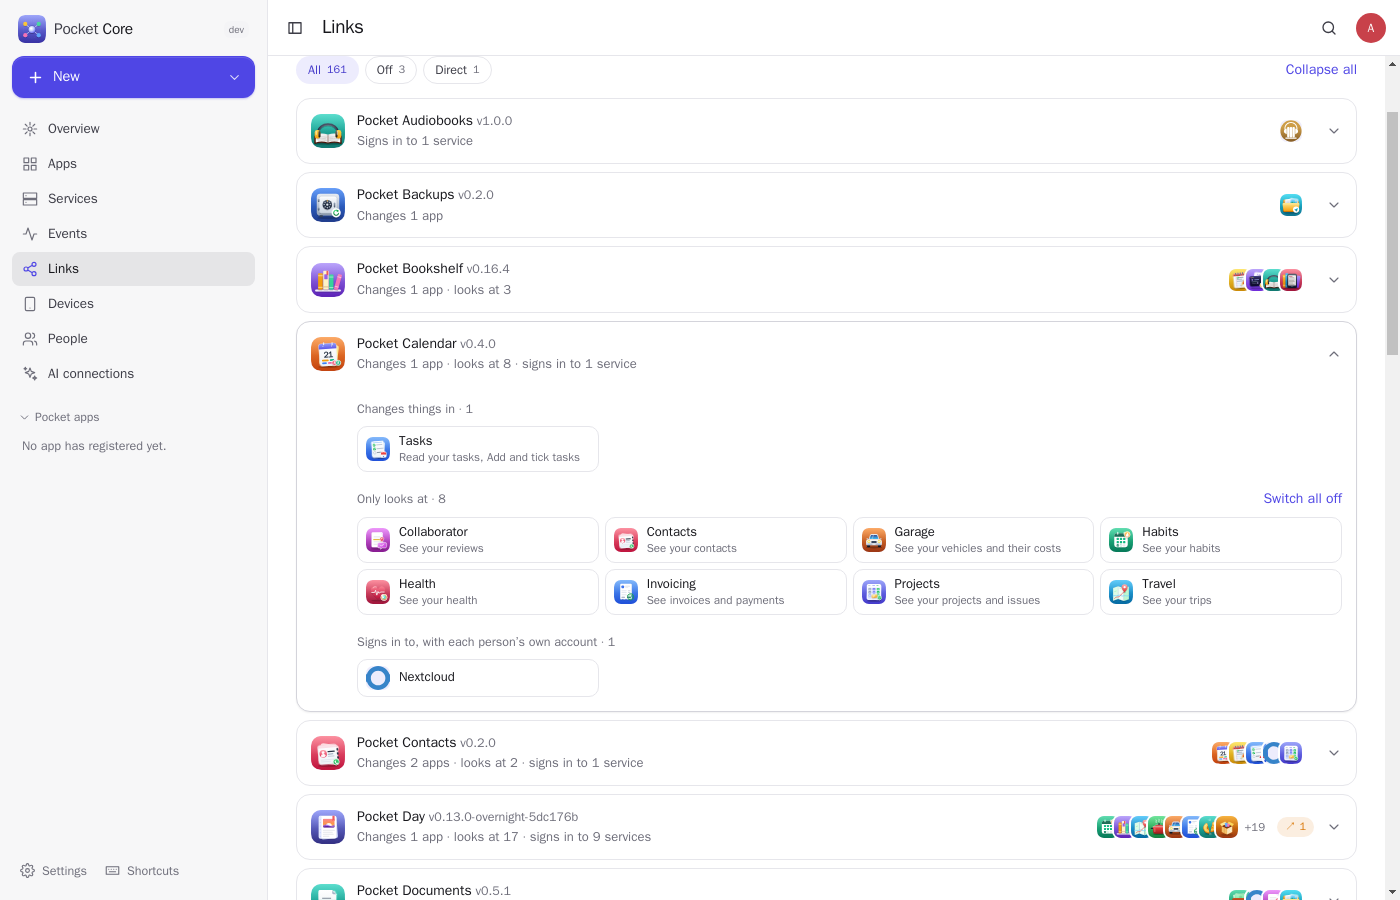
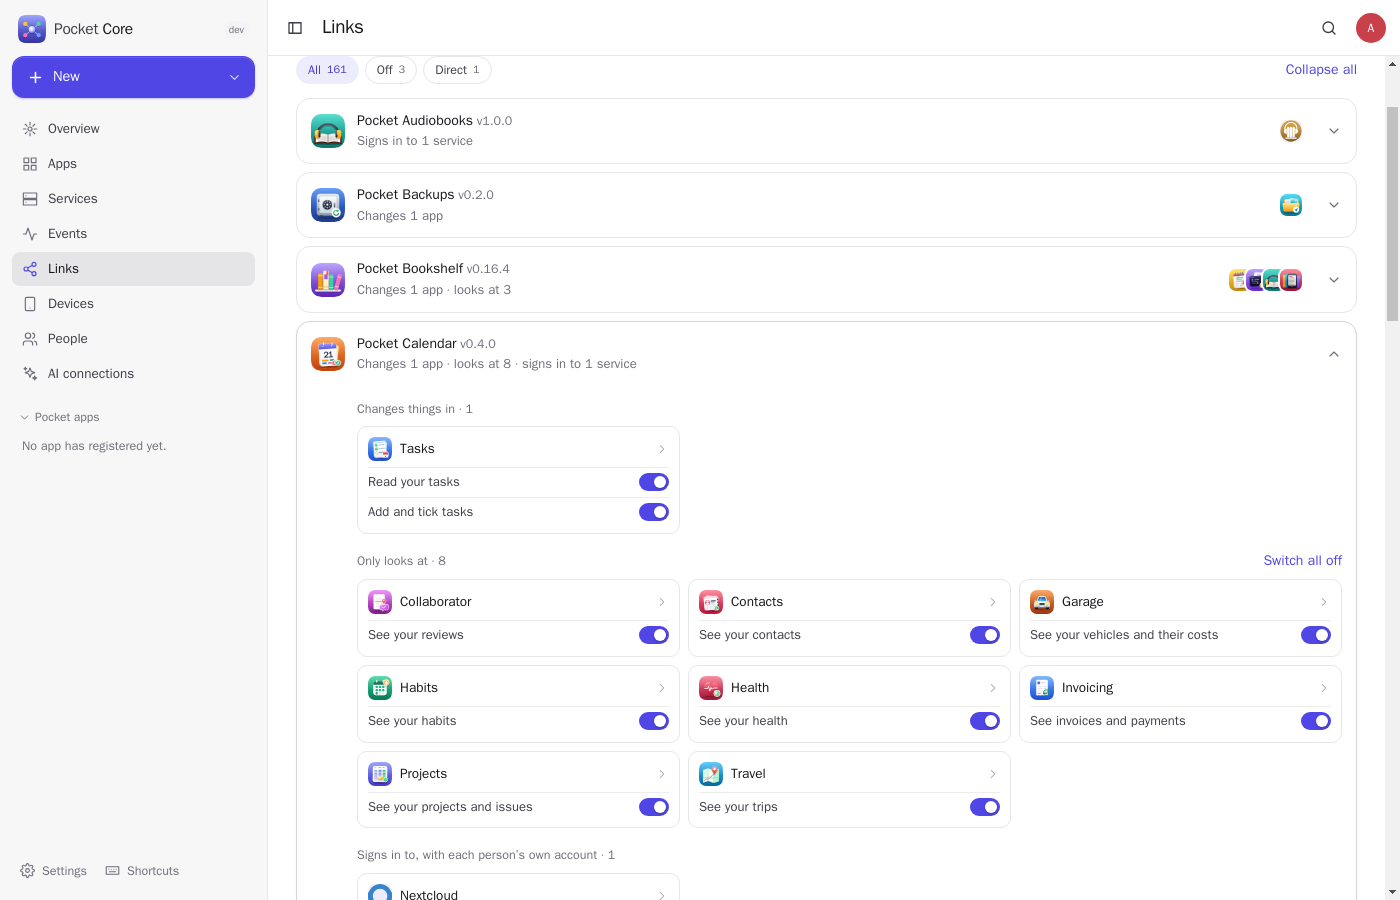
Links page: an opened card shows every permission with its switch; the app's name opens the details

diff --git a/web/src/pages/Links.tsx b/web/src/pages/Links.tsx
@@ -158,8 +158,29 @@ function PairChip({ g, side, apps, onOpen, both }: { g: LinkGroup; side: Side; a
   )
 }
 
-function SubjectCard({ s, side, apps, open, toggle, onOpen, setAll }: {
-  s: Subject; side: Side; apps: App[]; open: boolean; toggle: () => void; onOpen: (g: LinkGroup) => void; setAll: (pairs: LinkGroup[], on: boolean, what: string) => void
+// An opened card's link: the other app on top, one switch per permission under it.
+function PairBox({ g, side, apps, onOpen, flip }: { g: LinkGroup; side: Side; apps: App[]; onOpen: () => void; flip: (l: AppLink, on: boolean) => void }) {
+  const slug = side === 'uses' ? g.target : g.app, name = side === 'uses' ? g.targetName : g.appName
+  const st = pairState(g), direct = directCount(g)
+  return (
+    <div className={`lk-box ${st}`}>
+      <button type="button" className="lk-box-head" onClick={onOpen} title={`Details: ${g.appName} → ${g.targetName}`}>
+        <Ico slug={slug} name={name} apps={apps} /><b>{short(name)}</b>
+        {st === 'bad' && <span className="lk-tag bad">{stateWord.bad}</span>}
+        {direct > 0 && <span className="lk-tag direct" title={`${direct} connect directly with a pasted key: these switches don't control that`}>↗{direct}</span>}
+        <Icon name="chevron-right" size={14} className="lk-box-go" />
+      </button>
+      {g.links.map(l => (
+        <div key={l.id} className={`lk-perm${l.enabled ? '' : ' off'}`}>
+          <span className="grow" title={l.scope_description || l.scope}>{isService(g.target) ? 'Use each person’s account' : scopeLabel(l)}</span>
+          <Switch size="sm" on={l.enabled} onChange={on => flip(l, on)} title={l.enabled ? 'On for the box: each person can still switch it off' : 'Off for everyone'} />
+        </div>))}
+    </div>
+  )
+}
+
+function SubjectCard({ s, side, apps, open, toggle, onOpen, setAll, flip }: {
+  s: Subject; side: Side; apps: App[]; open: boolean; toggle: () => void; onOpen: (g: LinkGroup) => void; setAll: (pairs: LinkGroup[], on: boolean, what: string) => void; flip: (l: AppLink, on: boolean) => void
 }) {
   const off = s.pairs.filter(g => ['off', 'partial'].includes(pairState(g))).length
   const bad = s.pairs.filter(g => pairState(g) === 'bad').length
@@ -194,7 +215,7 @@ function SubjectCard({ s, side, apps, open, toggle, onOpen, setAll }: {
                   <h4 className="lc-h">{sec.title} <span className="muted">· {sec.pairs.length}</span></h4>
                   {sec.pairs.length > 1 && <button type="button" className="linkish small" onClick={() => setAll(sec.pairs, !allOn, `${sec.title.toLowerCase()} (${s.name})`)}>{allOn ? 'Switch all off' : 'Switch all on'}</button>}
                 </div>
-                <div className="lk-chips">{sec.pairs.map(g => <PairChip key={g.key} g={g} side={side} apps={apps} onOpen={() => onOpen(g)} />)}</div>
+                <div className="lk-boxes">{sec.pairs.map(g => <PairBox key={g.key} g={g} side={side} apps={apps} onOpen={() => onOpen(g)} flip={flip} />)}</div>
               </section>)
           })}
           {open && s.idle.length > 0 && <p className="muted small lk-idle">Offered, no app uses it yet: {s.idle.map(o => o.name || o.scope).join(', ')}</p>}
@@ -251,7 +272,7 @@ export default function Links() {
   const pair = picked ? groups.find(g => g.key === picked) : undefined
   const bad = groups.filter(g => pairState(g) === 'bad')
   const pocketCards = shown.filter(s => !s.service), serviceCards = shown.filter(s => s.service)
-  const card = (s: Subject) => <SubjectCard key={s.slug} s={s} side={side} apps={apps || []} open={isOpen(s.slug)} toggle={() => toggle(s.slug)} onOpen={g => setPicked(g.key)} setAll={setAll} />
+  const card = (s: Subject) => <SubjectCard key={s.slug} s={s} side={side} apps={apps || []} open={isOpen(s.slug)} toggle={() => toggle(s.slug)} onOpen={g => setPicked(g.key)} setAll={setAll} flip={flip} />
   const ico = (slug: string, name: string) => <Ico slug={slug} name={name} apps={apps || []} />
 
   return (

diff --git a/web/src/styles/core.css b/web/src/styles/core.css
@@ -466,6 +466,17 @@ a.stat:hover { border-color: var(--border-strong); box-shadow: var(--shadow); te
 .lk-tag.partial { background: var(--warning-soft); color: var(--warning); }
 .lk-tag.bad { background: var(--danger); color: #fff; }
 .lk-tag.direct { background: var(--warning-soft); color: var(--warning); }
+.lk-boxes { display: grid; grid-template-columns: repeat(auto-fill, minmax(250px, 1fr)); gap: 8px; align-items: start; }
+.lk-box { border: 1px solid var(--border); border-radius: var(--radius); background: var(--surface); padding: 4px 10px 6px; }
+.lk-box.bad { border-color: var(--danger); border-style: dashed; }
+.lk-box-head { display: flex; align-items: center; gap: 8px; width: 100%; padding: 6px 0; font: inherit; font-size: 13.5px; text-align: left; color: var(--text); background: none; border: 0; cursor: pointer; }
+.lk-box-head b { font-weight: 600; flex: 1; min-width: 0; overflow: hidden; text-overflow: ellipsis; white-space: nowrap; }
+.lk-box-head .feed-ico { width: 24px; height: 24px; border-radius: 7px; flex-shrink: 0; font-size: 11px; }
+.lk-box-go { color: var(--faint); flex-shrink: 0; }
+.lk-box-head:hover b, .lk-box-head:hover .lk-box-go { color: var(--accent); }
+.lk-perm { display: flex; align-items: center; gap: 10px; padding: 5px 0; border-top: 1px solid var(--hairline); font-size: 13px; color: var(--text-2); }
+.lk-perm .grow { flex: 1; min-width: 0; }
+.lk-perm.off .grow { color: var(--muted); }
 .lk-idle { margin: 10px 0 0; }
 .lk-alert { border: 1px solid var(--danger); background: var(--danger-soft); border-radius: var(--radius-lg); padding: 12px 14px; margin-bottom: 14px; }
 .lk-alert > b { display: block; margin-bottom: 8px; color: var(--danger); }
@@ -480,6 +491,5 @@ a.stat:hover { border-color: var(--border-strong); box-shadow: var(--shadow); te
   .lk-head-tags:empty { display: none; }
   .lk-stack { display: none; }
   .lk-body { padding: 0 12px 12px; }
-  .lk-chips { grid-template-columns: 1fr 1fr; }
+  .lk-chips, .lk-boxes { grid-template-columns: 1fr; }
 }
-@media (max-width: 400px) { .lk-chips { grid-template-columns: 1fr; } }

diff --git a/docs/links.md b/docs/links.md
@@ -29,7 +29,7 @@ Scopes match `^[a-z0-9][a-z0-9_.:-]{0,60}$`. Core makes one **link** per (app, t
 
 ## The Links page
 
-Admins see every link as one list, a card per app. A closed card says in a line what the app adds up to ("Changes 3 apps · looks at 1 · signs in to 1 service") with the icons of the apps on the other side; opened, it groups them into **Changes things in** (any scope that writes), **Only looks at** (read scopes only) and **Signs in to** (services, with each person's own account). Each link is a chip carrying the names of its scopes, marked *Off*, *Partly off*, *Can't work* or ↗ *Direct*; tap it for the switches, how each person connects, and key replacement notes. A group with more than one link has **Switch all off / on** (off asks first).
+Admins see every link as one list, a card per app. A closed card says in a line what the app adds up to ("Changes 3 apps · looks at 1 · signs in to 1 service") with the icons of the apps on the other side; opened, it groups them into **Changes things in** (any scope that writes), **Only looks at** (read scopes only) and **Signs in to** (services, with each person's own account). Each link is a box with the other app on top and one switch per scope under it, marked *Can't work* or ↗ *Direct* when so; tap the app's name for the details: why the app asks, usage, how each person connects, key replacement notes. A group with more than one link has **Switch all off / on** (off asks first).
 
 - **What each app uses / Who reaches each app** turns the cards around: one card per app or service, with the apps that can change it, the apps that can only look, and the scopes it offers that nobody uses yet. Services get their own section.
 - **Search** matches app and service names and scope names; a card whose own name matches keeps all its links.
